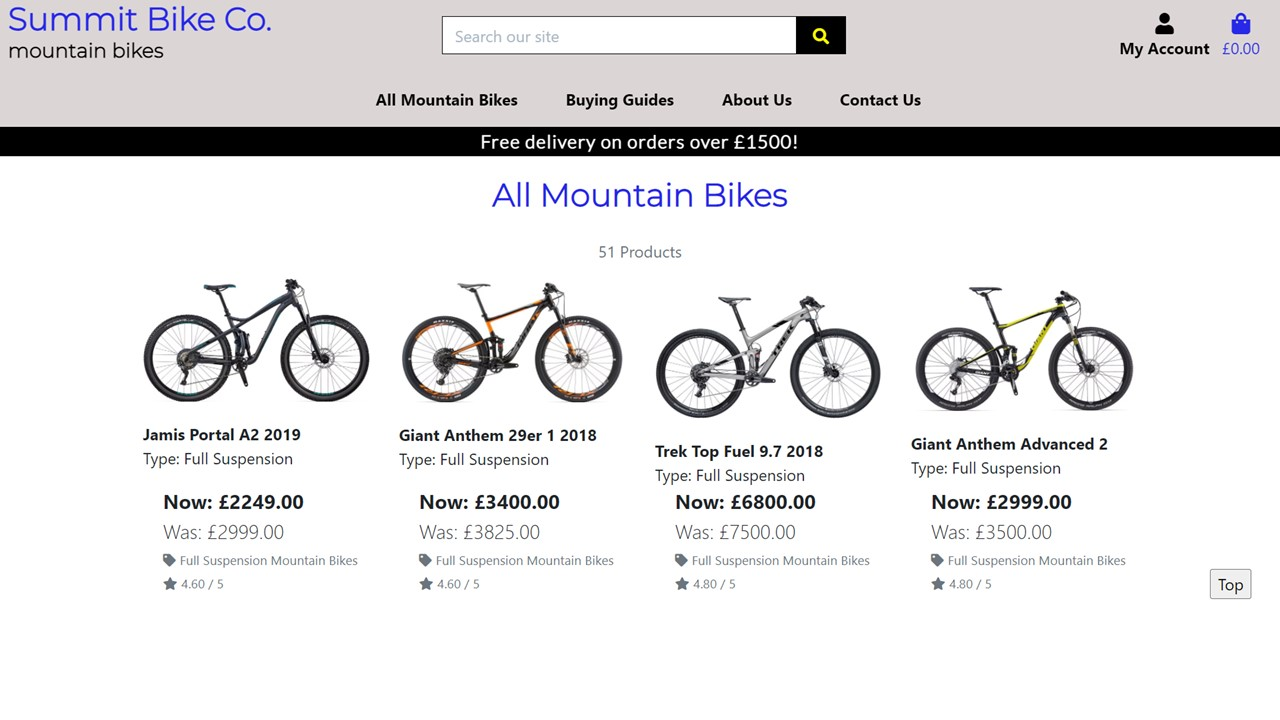
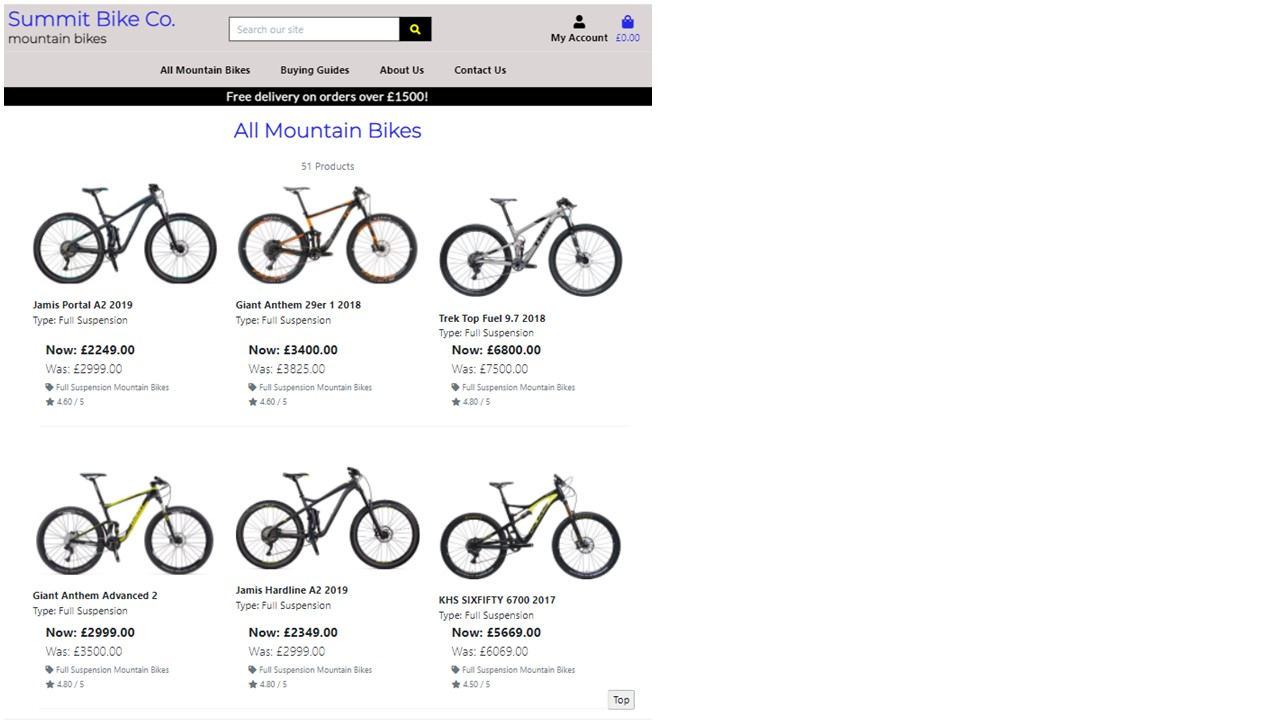
add webpage screenshots to readMe

diff --git a/README.md b/README.md
@@ -20,26 +20,28 @@ E-commerce sales have risen substantially over the last few years, so starting a
 ## The Summit Bike Co. website pages are as follows:
 * **Home** (index.html): landing page
 * **All Mountain Bikes**: dropdown opens the 'product' page. The options: 'By Price', By Rating'; 'By Brand'; 'By Type'; and 'All Bikes' are different sort options of the various products sold by Summit Bike Co.<br>
-The page: 'bike_detail' (which displays individual product information), can then be accessed from the chosen sort of the 'product' page.
+The page: **bike_detail** (which displays individual product information), can then be accessed from the chosen sort of the 'product' page.
 * **Buying Guides**: dropdown reveals:  'What is a Mountain Bike'; 'Mountain Bike Sizing Guide'. <br>
 * **About Us**: dropdown reveals:  'Who We Are'; 'Cycle to Work Scheme; 'Terms and Conditions'.<br> 
 * **Contact Us**: dropdown reveals:  'Contact Details'.<br>
 * **BikeTalk**: (under the 'Contact Us' dropdown) reveals: 'BikeTalk'; 'Article Name...'<br>
 * **My Account**: dropdown reveals:  'Stock Management'; 'My Profile'; 'Logout'.<br>
-The page 'Stock Management' is permissions based and only appears if the user is a superuser (admin).<br>
-The page 'My Profile' only appears if the user is registered (account holder). <br>
+
+The page **Stock Management** is permissions based and only appears if the user is a superuser (admin).<br>
+The page **My Profile** only appears if the user is registered (account holder). <br>
+
 **Allauth Account pages**
 * **Logout**: visible when users are logged in
 * **Login**: visible when users are logged out
 * **Register**: visible when users are logged out
 
-The live project can be found [here]()
+The live project can be found [here](https://summit-bike-co.herokuapp.com/)
 
 ## Facebook screenshots
 A mockup of the Summit Bike Co. Facebook page can be found [here](/media/SBC_facebook_mockup.jpg)
 
 ## Site Map
-
+The site map and robots.txt are located against the root of summit_bike_co.
 
 ## Search Engine Optimisation (SEO)
 ###  Keywords
@@ -57,11 +59,11 @@ Represented in multiple places throughout the website <br>
 The following **product based keyword** enquiries showed a mid-range volume of searches, and a mid-range level of organic competition:<br>
 * full suspension mountain bikes
 * hardtail mountain bikes
-These are seen in both the individual 'Bike Model [name]...' page and the 'All Mountain Bikes' page
+These are seen in both the individual 'Bike Model name ...' page and the 'All Mountain Bikes' page
 and are represented as:<br>
 * A 'h2' on each individual bike_detail page along with a reference in the relevant individual bike's product 'description' section
 * as a dropdown option ('By Type') under the 'All Mountain Bikes' menu option
-* as a sort option on both the 'Bike Model [name]...' pages and the 'All Mountain Bikes' page
+* as a sort option on both the 'Bike Model name ...' pages and the 'All Mountain Bikes' page
 <br>
 
 The following **information based keyword** enquiries showed a lower volume of searches, but also low organic
@@ -80,7 +82,7 @@ This long-tail keyword showed a high volume, with mid to high level of organic c
 Represented as: an anchor tag on the 'Cycle to Work Scheme' page accessed via the dropdown option under the 'About Us' menu <br>
 
 ## Entity Relationship Diagram (ERD) for Summit Bike Co.
-There are 5 models within the Summit Bike Co website:<br>
+There are 6 models for the Summit Bike Co. website - contained within the following apps:<br>
 * django.contrib.auth User model
 * Products
 * Checkout
@@ -203,15 +205,15 @@ The **Free delivery on orders over £1500!** banner:
 The **Logout**; **Login** and **Register** pages:
 * **Logout** - confirmation to a registered user that they want to logout
 * This feature fulfills the user story: *'As a returning user, I want to be able to easily logout into my account'*.
-A screenshot of the 'Logout' page can be found [here](). <br>
+A screenshot of the 'Logout' page can be found [here](/media/SS-log_out.jpg). <br>
 
 * **Login** - request of login information (username/email and password) from registered users
 * This feature fulfills the user story: *'As a returning user, I want to be able to easily login into my account'*.
-A screenshot of the 'Login' page can be found [here](). <br>
+A screenshot of the 'Login' page can be found [here](/media/SS-login.jpg). <br>
 
 * **Register** - request of user information (email address, username and password) from new users
 * This feature fulfills the user story: *'As a new user, I want to be able to easily register for an account, to set up a user profile'*.
-A screenshot of the 'Register' page can be found [here](). <br>
+A screenshot of the 'Register' page can be found [here](/media/SS-register.jpg). <br>
 
 ### Footer Element
 * Present on all 15 pages of the website, the footer contains navigational links to the social media accounts of Summit Bike Co.
@@ -231,7 +233,7 @@ This page is intended to provide:
 * provides quick access links to 'buying guides' for shoppers who require product assistance
 * provides quick access link to 'contact us' for shoppers who want to obtain contact details
 * This feature fulfills the user stories: *'As a new user, I want to immediately understand the main purpose of the website'* and *'As a new user, I want to be able to see what products they offer'* and *'As a new user, I want to be able to easily contact the organisation'* and *'As a new user, I want to be able to view advice on which product is best suited to my needs'*.
-A screenshot of the 'Home' page (index.html) can be found [here](). <br>
+A screenshot of the 'Home' page (index.html) can be found [here](/media/SS-home.jpg). <br>
 
 ## 2.  The PRODUCT app pages: 'All Bikes' and 'Bike Model ...' and 'Stock Management Add a Product' and 'Edit a Product'
 
@@ -241,7 +243,7 @@ The **All Bikes** page is intended to provide:
 * details of individual products can be accessed by selecting the chosen product
 * if user is an authenticated superuser, 'edit' and 'delete' links will appear with each product
 * This feature fulfills the user stories: *'As a new user, I want to be able to see what products they offer'* and *'As a new user, I want to be able to view a specific classification of products'* and *'As a new user, I want to be able to see all the products the organisation has on offer'* and *'As a store owner, I want to be able to edit/update an existing product'* and *'As a store owner, I want to be able to delete an existing product'*.
-A screenshot of the 'All Bikes' page (product.html) can be found [here](). <br>
+A screenshot of the 'All Bikes' page (product.html) can be found [here](/media/SS-all_mountain_bikes.jpg). <br>
 
 The **Bike Model ...** page is intended to provide:
 * the model name of the mountain bike (eg: 'Giant Anthem 29er 1 2018')
@@ -258,7 +260,7 @@ The **Bike Model ...** page is intended to provide:
 * a 'add to bag' button, should the user wish to add that particular product to their shopping bag
 * if user is an authenticated superuser, 'edit' and 'delete' links will appear with each product
 * This feature fulfills the user stories: *'As a new user, I want to be able to view a specific product'* and *'As a new user, I want to be able to view a specific classification of products'* and *'As a new user, I want to be able to select my required size and quantity of each product'* and *'As a new user, I want to be able to continue shopping if I want to look at a variety of products before making a choice/s'* and *'As a new user, I want to be able to easily add products to my shopping bag'* and *'As a store owner, I want to be able to edit/update an existing product'* and *'As a store owner, I want to be able to delete an existing product'*.
-A screenshot of the 'Bike Model...' page (bike_detail.html) can be found [here](). <br>
+A screenshot of the 'Bike Model...' page (bike_detail.html) can be found [here](/media/SS-bike_model_name.jpg). <br>
 
 The **Stock Management Add a Product** page is intended:
 * to enable an authenticated superuser (admin/store owner) to add a new product to existing store stock
@@ -267,7 +269,7 @@ The **Stock Management Add a Product** page is intended:
 * to provide a 'Add Product' button, to save the entry and submit to the product database
 * to provide a 'Cancel' button, which will discard the entry
 * This feature fulfills the user story: *'As a store owner, I want to be able to add a new product to the current stock'*
-A screenshot of the 'Stock Management Add a Product' page (add_product.html) can be found [here](). <br>
+A screenshot of the 'Stock Management Add a Product' page (add_product.html) can be found [here](/media/SS-add_product.jpg). <br>
 
 The **Edit a Product** page is intended:
 * to enable an authenticated superuser (admin/store owner) to edit/update an existing product
@@ -276,7 +278,7 @@ The **Edit a Product** page is intended:
 * to provide a 'Update Product' button, to save the entry and submit to the product database
 * to provide a 'Cancel' button, which will discard any changes made
 * This feature fulfills the user story: *'As a store owner, I want to be able to edit/update an existing product*
-A screenshot of the 'Edit a Product' page (edit_product.html) can be found [here](). <br>
+A screenshot of the 'Edit a Product' page (edit_product.html) can be found [here](/media/SS-edit_product.jpg). <br>
 
 The **Delete...** link (next to the 'edit' link) is intended:
 * to enable an authenticated superuser (admin/store owner) to immediately delete an existing product
@@ -291,7 +293,7 @@ The **Shopping Bag** page is intended to provide:
 * a summary of the contents of the user's bag including: an image; bike model name; chosen size; chosen quantity and pricing for each product in their bag
 * the user with the ability to edit the quantity of each product in their bag ('update' link) or to delete a product/s from their bag ('remove' link)
 * This feature fulfills the user stories: *'As a new user, I want to be able to view products in my shopping bag'* and *'As a new user, I want to be able to adjust the contents of my shopping bag before checking out'* and *'As a new user, I want to be able to easily add products to my shopping bag'*.
-A screenshot of the 'Shopping Bag' page (bag.html) can be found [here](). <br>
+A screenshot of the 'Shopping Bag' page (bag.html) can be found [here](/media/SS-shopping_bag.jpg). <br>
 
 ## 4.  The CHECKOUT app pages: 'Checkout' and 'Thank You'
 
@@ -304,13 +306,13 @@ The **Checkout** page is intended to provide:
 * an order summary of the contents of the user's bag including: an image; bike model name; chosen size; chosen quantity and pricing for each product in their bag
  * an 'order total'; 'delivery' charge (if applicable); and 'grand total' of their shopping bag
  * This feature fulfills the user stories: *'As a returning user, I want to be know that my personal and payment information is secure'* and *'As a new user, I want to be able to save my personal, delivery and billing info to my profile'* and *'As a new user, I want to be able to view products in my shopping bag'* and *'As a new user, I want to be able to adjust the contents of my shopping bag before checking out'*.
- A screenshot of the 'checkout' page (checkout.html) can be found [here](). <br>
+ A screenshot of the 'checkout' page (checkout.html) can be found [here](/media/SS-checkout.jpg). <br>
 
 The **Thank You** page is intended to provide:
 * an order confirmation listing 'order number'; 'order date'; 'order details'; 'delivering to'; and 'billing info'
 * a 'Need Something Else' button which reverts back to the 'All Bikes' page, should the user wish to keep shopping for a new order
 * This feature fulfills the user stories: *'As a new user, I want to be able to view my order confirmation after checkout'* and *'As a new user, I want to receive a confirmation email when I have completed an order'*
-A screenshot of the 'Thank You' page (checkout_success.html) can be found [here](). <br>
+A screenshot of the 'Thank You' page (checkout_success.html) can be found [here](/media/SS-thank_you.jpg). <br>
 
 ## 5.  The PROFILES app pages: 'My Profile'
 
@@ -320,19 +322,19 @@ The **My Profile** page is intended to provide:
 * the user with their 'Order History' showing 'order number; 'date' of order; 'items' for that order; and 'order total'
 * each order under the 'Order History' is accessible via a link which will revert the user to the 'Thank You (order confirmation)' page for that particular order.  A 'Back to Profile' link will take the user back to their 'My Profile' page
 * This feature fulfills the user stories: *'As a returning user, I want to be able to view my order history'* and *'As a returning user, I want to be able to update my personal and delivery details'*.
-A screenshot of the 'My Profile' page (profile.html) can be found [here](). <br>
+A screenshot of the 'My Profile' page (profile.html) can be found [here](/media/SS-my_profile.jpg). <br>
 
 ## 6.  The BUYING_GUIDES app pages: 'What is a Mountain Bike' and 'Mountain Bike Sizing Guide'
 
 The **What is a Mountain Bike** page is intended to provide:
 * information on the types of mountain bikes and their construction
 * This feature fulfills the user story: *'As a new user, I want to be able to view advice on which product is best suited to my needs'*
-A screenshot of the 'What is a Mountain Bike' page (what_is_a_mtb.html) can be found [here](). <br>
+A screenshot of the 'What is a Mountain Bike' page (what_is_a_mtb.html) can be found [here](/media/SS-what_is_a_mtb.jpg). <br>
 
 The **Mountain Bike Sizing Guide** page is intended to provide:
 * information on how to select the correct sized mountain bike
 * This feature fulfills the user story: *'As a new user, I want to be able to view advice on product sizing to suit my needs'*
-A screenshot of the 'Mountain Bike Sizing Guide' page (mtb_sizing.html) can be found [here](). <br>
+A screenshot of the 'Mountain Bike Sizing Guide' page (mtb_sizing.html) can be found [here](/media/SS-mountain_bike_sizing_guide.jpg). <br>
 
 ## 7.  The INFO app pages: 'Who We Are' and 'Cycle to Work Scheme' and 'Terms and Conditions' and 'Contact Details'
 
@@ -340,39 +342,40 @@ The **Who We Are** page is intended to provide:
 * a brief history and general information about Summit Bike Co.
 * Summit Bike Co.'s online shopping transaction
 * This feature fulfills the user story: *'As a new user, I want to be able to view general information about the organisation'*
-A screenshot of the 'Who We Are' page (who_we_are.html) can be found [here](). <br>
+A screenshot of the 'Who We Are' page (who_we_are.html) can be found [here](/media/SS-who_we_are.jpg). <br>
 
 The **Cycle to Work** page is intended to provide:
 * information about Summit Bike Co's Cycle to Work Scheme and the 4-step process to assist employers in joining the Scheme
 * an external link providing information on the UK Government initiative for the Cycle to Work Scheme
 * This feature fulfills the user story: *'As a new user, I want to be able to view the Cycle to Work Scheme for the organisation'*
-A screenshot of the 'Cycle to Work Scheme' page (cycle_to_work.html) can be found [here](). <br>
+A screenshot of the 'Cycle to Work Scheme' page (cycle_to_work.html) can be found [here](/media/SS-cycle_to_work.jpg). <br>
 
 The **Terms and Conditions** page is intended to provide:
 * all information regarding the terms and conditions for Summit Bike Co. including how to order, delivery, returns and exchanges, cancellation, and warranty and liability
 * a contact number for customer services
 * an external link to the 'Privacy Policy' for Summit Bike Co.
 * This feature fulfills the user story: *'As a new user, I want to be able to easily contact the organisation'* and *'As a new user, I want to be able to view the privacy policy of the organisation'* and *'As a new user, I want to be able to view the terms and conditions of the organisation '* and *'As a new user, I want to be able to view general information about the organisation'*
-A screenshot of the 'Terms and Conditions' page (terms_conditions.html) can be found [here](). <br>
+A screenshot of the 'Terms and Conditions' page (terms_conditions.html) can be found [here](/media/SS-terms_conditions.jpg). <br>
 
 The **Contact Details** page is intended to provide:
 * a contact number for customer services and information they can provide
 * how complaints are handled by Summit Bike Co.
 * head office address and company information for Summit Bike Co.
 * This feature fulfills the user story: *As a new user, I want to be able to easily contact the organisation'* and *'As a new user, I want to be able to view general information about the organisation'*.
-A screenshot of the 'Contact Us' page (contact_us.html) can be found [here](). <br>
+A screenshot of the 'Contact Us' page (contact_us.html) can be found [here](/media/SS-contact_us.jpg). <br>
 
 ## 8.  The BIKETALK app pages: 'BikeTalk' and 'Article Name...'
 The **BikeTalk** page is intended to provide:
 * a description of what BikeTalk is
 * a list of all the organisation active articles
-* details of each active article listed can be accessed by clicking either the article name (eg Besk UK Tech Trails...) or the slug (eg: Dyfi Bike Park...).
+* details of each active article (article_content.html) listed can be accessed by clicking either the article name (eg Besk UK Tech Trails...) or the slug (eg: Dyfi Bike Park...).
 * the author (i.e. the Administator) is displayed above the article name.
 * the date and time the Post was created and the current amount of 'likes' for that particular article.
 * a 'Comments' block: for already approved (by admin) comments left by users
 * a 'Leave a Comment' block: registered users can read and leave a comment on any active article.  Unregistered users can only read articles and existing (admin approved) comments.
 * This feature fulfills the user stories: *'As a new user, I want to be able to read the articles and comments in 'BikeTalk''* and *'As a returning user, I want to be able to read and leave comments in 'BikeTalk''*.
-A screenshot of the 'Contact Us' page (contact_us.html) can be found [here](). <br>
+A screenshot of the 'BikeTalk' page (article_list.html) can be found [here](/media/SS-biketalk.jpg). <br>
+A screenshot of the 'Article Name...' page (article_content.html) can be found [here](/media/SS-article_name.jpg). <br>
 
 ## Design of the Summit Bike Co. website
 
@@ -418,6 +421,7 @@ No known limitations.
 * [PicPick](https://picpick.app/en/) - used to create screenshots of smartevents WMP Website pages
 * [Heroku](https://www.heroku.com/) - final project (website) deployed to and stored on Heroku
 * [Wordtracker](https://www.wordtracker.com/) - utilised for search engine optimisation
+* [XML-Sitemaps.com](https://www.xml-sitemaps.com/) - generation of sitemap for website
 
 ## Testing
 * Manual testing has been performed to check for back-end functionality (Django, Python, Javascript), as well as visual effects and website layout (HTML, Bootstrap, CSS).
@@ -485,7 +489,7 @@ All 17 HTML pages were run through the [W3C Markup Validation Service](https://v
 [HTML: profile.html](/media/HTML-val_profile.jpg).<br>
 
 * The CSS stylesheet was run through the [CSS Validation Service-Jigsaw](https://jigsaw.w3.org/css-validator/) and showed no errors. <br>
-[CSS validation]().<br>
+[CSS validation](/media/CSS_validation.jpg).<br>
 
 * The Javascript code was run through the [JSHint Validation Service](https://jshint.com) and showed no errors.<br>
 [JS validation for summit_bike_co app and bag app](/media/JSHint_summit-bike-co-app_and_bag-app.jpg).<br>
